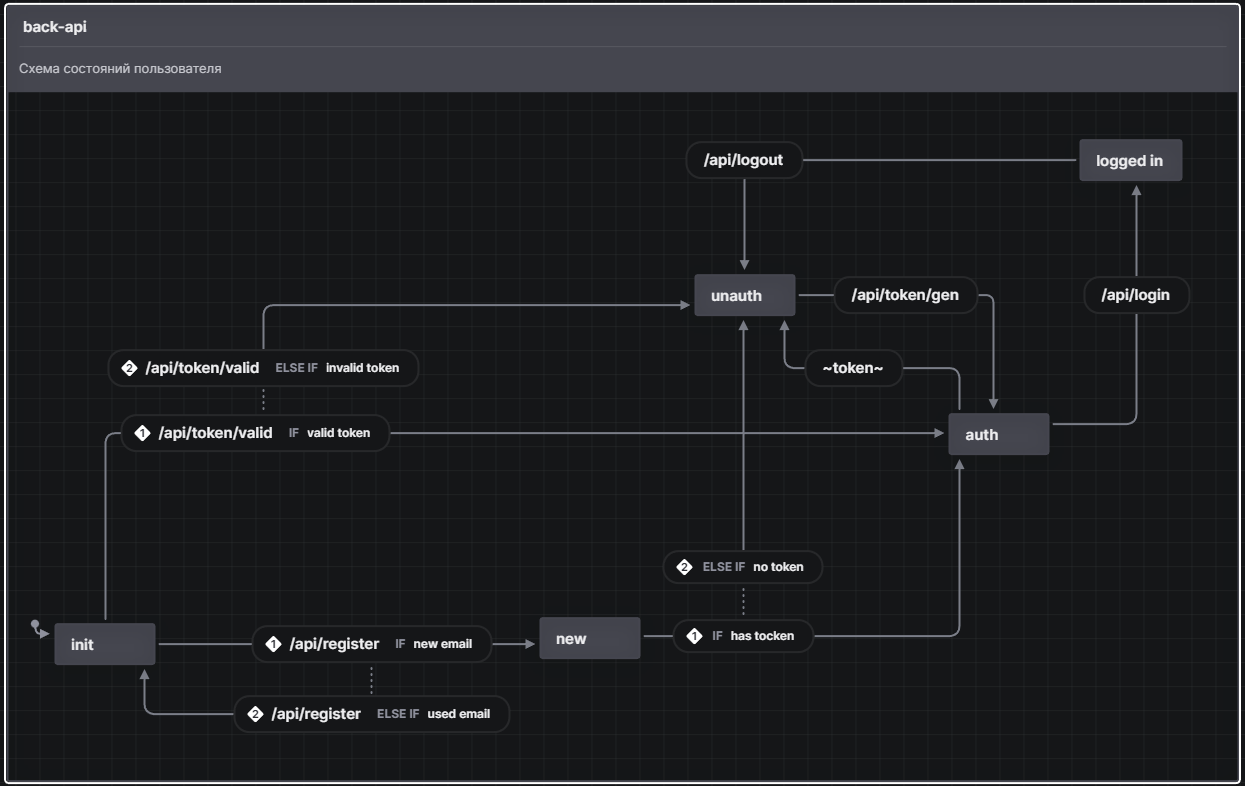
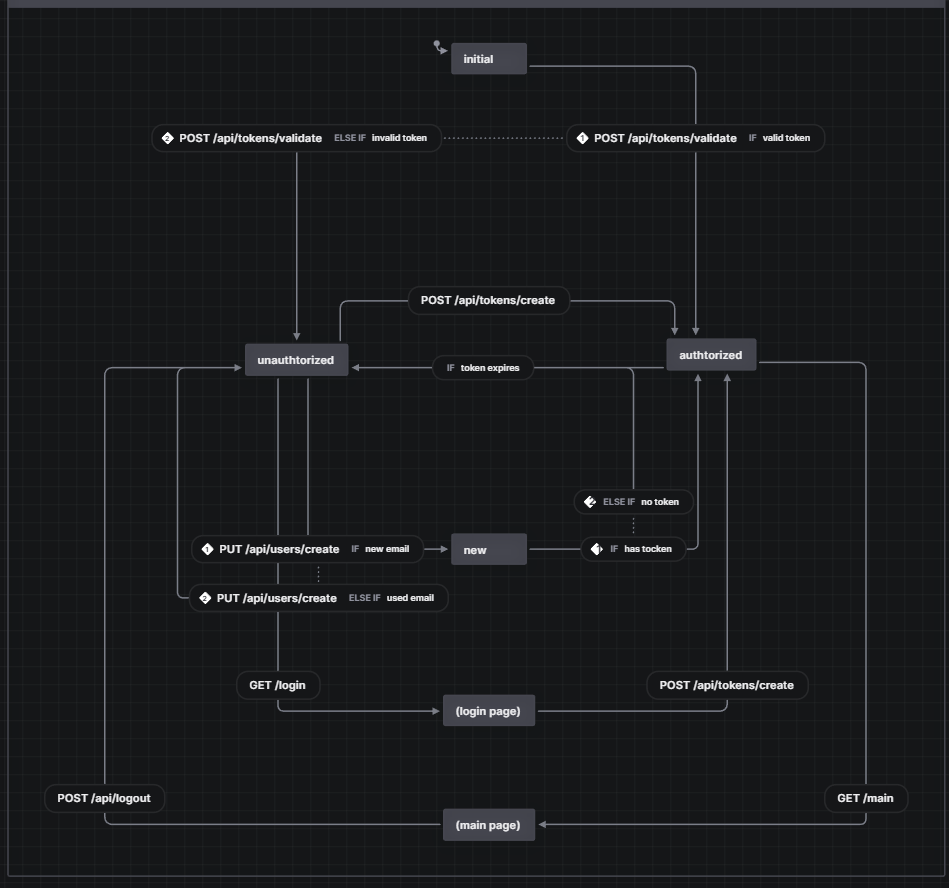
Fixed REST API, some refactoring

diff --git a/lab-4/backend-spring-kotlin/src/main/kotlin/io/github/e1turin/controller/AuthController.kt b/lab-4/backend-spring-kotlin/src/main/kotlin/io/github/e1turin/controller/AuthController.kt
@@ -1,12 +1,7 @@
 package io.github.e1turin.controller
 
-import com.auth0.jwt.JWT
-import com.auth0.jwt.JWTVerifier
-import com.auth0.jwt.algorithms.Algorithm
-import com.auth0.jwt.exceptions.JWTCreationException
-import com.auth0.jwt.interfaces.DecodedJWT
 import io.github.e1turin.dto.*
-import io.github.e1turin.model.User
+import io.github.e1turin.service.AuthService
 import io.github.e1turin.service.UserService
 import jakarta.servlet.http.Cookie
 import jakarta.servlet.http.HttpServletResponse
@@ -16,18 +11,32 @@ import org.springframework.web.bind.annotation.*
 import java.util.*
 
 @RestController
-@RequestMapping("api")
-class AuthController(private val userService: UserService) {
+@RequestMapping("api/auth")
+class AuthController(private val userService: UserService, private val authService: AuthService) {
 
-    private val algorithm = Algorithm.HMAC512("secret-kek-lol-idk") //TODO setting up properly
     private val logger = LoggerFactory.getLogger(AuthController::class.java)
 
-    @PostMapping("register")
-    fun register(@RequestBody body: RegisterRequest): ResponseEntity<Any> {
-        //TODO: Validation (@Valid)
+    /**
+     * Token check method
+     */
+    @PostMapping("tokens/validate")
+    fun validateToken(@CookieValue("jwt") token: String?): ResponseEntity<Any>{
+        //TODO @Valid
+        return if (token != null && authService.validateJwt(Jwt(token))){
+            ResponseEntity.ok("Token is valid")
+        } else {
+            ResponseEntity.status(401).body(error("Invalid token"))
+        }
+    }
 
+    /**
+     * Login method
+     */
+    @PostMapping("tokens/create")
+    fun createToken(@RequestBody body: LoginRequest, response: HttpServletResponse): ResponseEntity<Any> {
+
+        //TODO: Validation (@Valid)
         val problems = mutableListOf<Pair<String, String>>().apply {
-            body.name ?: add("name" to "Incorrect user name")
             body.email ?: add("email" to "Incorrect email")
             body.password ?: add("password" to "Incorrect Password")
         }
@@ -38,92 +47,58 @@ class AuthController(private val userService: UserService) {
             )
         }
 
-        //TODO: check if already exists
-        if (userService.existsByEmail(body.email!!)) {
-            return ResponseEntity.badRequest().body(
-                error("User with such email already exists")
-            )
+        val user = userService.findByEmail(body.email!!) ?: run {
+            return ResponseEntity.badRequest().body(error("User not found"))
         }
 
-        val user = User().apply {
-            name = body.name!!
-            email = body.email!!
-            password = body.password!!
-        }
-
-        return try {
-            userService.save(user)
-
-            ResponseEntity.ok(message("Success"))
-        } catch (e: Exception) {
-            ResponseEntity.badRequest().body(
-                error(
-                    error = "An error occurred",
-                    details = mapOf("error" to (e.message ?: ""))
-                )
-            )
-        }
-
-    }
-
-    @PostMapping("login")
-    fun login(@RequestBody body: LoginRequest, response: HttpServletResponse): ResponseEntity<Any> {
-        //TODO: Validation (@Valid)
-
-        body.email ?: return ResponseEntity.badRequest().body(error("User not found"))
-        body.password ?: return ResponseEntity.badRequest().body(error("User not found"))
-
-        val user = userService.findByEmail(body.email)
-            ?: return ResponseEntity.badRequest().body(error("User not found"))
-
-        if (!user.comparePassword(body.password)) {
+        if (!user.comparePassword(body.password!!)) {
             return ResponseEntity.badRequest().body(error("Invalid password"))
         }
 
-        val jwt = try {
-            JWT.create().withIssuer(user.id.toString())
-                .withExpiresAt(Date(System.currentTimeMillis() + 60 * 24 * 1000)) // 1 day
-                .sign(algorithm)
-        } catch (e: JWTCreationException) {
+        val jwt = authService.createJwtToken(user) ?: run {
             return ResponseEntity.badRequest().body(
-                error("An error occurred while preparing JWT ${e.message}")
+                error("Token was not created")
             )
         }
 
-        val cookie = Cookie("jwt", jwt).apply { isHttpOnly = true }
+        val cookie = Cookie("jwt", jwt.token).apply { isHttpOnly = true }
 
         response.addCookie(cookie)
 
         return ResponseEntity.ok(message("Success"))
     }
 
-    //TODO: Is it necessary end point?
-    @GetMapping("user")
-    fun user(@CookieValue("jwt") jwt: String?): ResponseEntity<Any> {
-        jwt ?: return ResponseEntity.status(401).body(error("Unauthenticated"))
-
-        //TODO: check current user (issuer in jwt)
-
-        return try {
-            val verifier: JWTVerifier = JWT.require(algorithm).build()
-            val decodedJWT: DecodedJWT = verifier.verify(jwt)
-
-            val user = this.userService.getById(decodedJWT.issuer.toLong())
-
-            ResponseEntity.ok(user)
-        } catch (e: Exception) {
-            ResponseEntity.status(401).body(
-                error("Unauthenticated, an error occurred : ${e.message}")
-            )
-        }
-    }
-
-    @PostMapping("logout")
-    fun logout(response: HttpServletResponse): ResponseEntity<Any> {
+    /**
+     * Logout method
+     */
+    @DeleteMapping("tokens/delete")
+    fun deleteToken(response: HttpServletResponse): ResponseEntity<Any> {
         val cookie = Cookie("jwt", "").apply { maxAge = 0 }
 
         response.addCookie(cookie)
 
         return ResponseEntity.ok(message("Success"))
+    }
+
+
+    /**
+     * Returns current user data
+     */
+    @GetMapping("users") //TODO: Is it necessary end point?
+    @CrossOrigin("localhost")
+    fun user(@CookieValue("jwt") jwt: String?): ResponseEntity<Any> {
+        jwt ?: run { return ResponseEntity.status(401).body(error("Unauthenticated")) }
+
+        //TODO: check current user (issuer in jwt)
+
+        val decodedJwt = authService.decodeJwt(Jwt(jwt)) ?: run {
+            return ResponseEntity.status(401).body(
+                error("Token was not correct")
+            )
+        }
+
+        val user = this.userService.getById(decodedJwt.issuer.toLong())
+
+        return ResponseEntity.ok(user)
     }
 }

diff --git a/lab-4/backend-spring-kotlin/src/main/kotlin/io/github/e1turin/controller/UserController.kt b/lab-4/backend-spring-kotlin/src/main/kotlin/io/github/e1turin/controller/UserController.kt
@@ -1,0 +1,68 @@
+package io.github.e1turin.controller
+
+import io.github.e1turin.dto.RegisterRequest
+import io.github.e1turin.dto.error
+import io.github.e1turin.dto.message
+import io.github.e1turin.model.User
+import io.github.e1turin.service.UserService
+import org.springframework.http.ResponseEntity
+import org.springframework.web.bind.annotation.PutMapping
+import org.springframework.web.bind.annotation.RequestBody
+import org.springframework.web.bind.annotation.RequestMapping
+import org.springframework.web.bind.annotation.RestController
+
+@RestController
+@RequestMapping("api/users")
+class UserController(private val userService: UserService) {
+
+    @PutMapping("create")
+    fun registerNewUser(@RequestBody body: RegisterRequest): ResponseEntity<Any> {
+        //TODO: Validation (@Valid)
+
+        val problems = mutableListOf<Pair<String, String>>().apply {
+            body.name ?: add("name" to "Incorrect user name")
+            body.email ?: add("email" to "Incorrect email")
+            body.password ?: add("password" to "Incorrect Password")
+        }
+
+        if (problems.isNotEmpty()) {
+            return ResponseEntity.badRequest().body(
+                error("Invalid payload", problems.toMap())
+            )
+        }
+
+        //TODO: check if already exists
+        if (userService.existsByEmail(body.email!!)) {
+            return ResponseEntity.badRequest().body(
+                error("User with such email already exists")
+            )
+        }
+
+        val user = User().apply {
+            name = body.name!!
+            email = body.email!!
+            password = body.password!!
+        }
+
+        return try {
+            userService.save(user)
+            /*
+             * `201 Created` is success status response code indicates
+             * that the request has succeeded and has led to the creation of a resource.
+             */
+            ResponseEntity.status(201).body(message("Success"))
+        } catch (e: Exception) { //TODO: I really want to show user the error message?
+            ResponseEntity.badRequest().body(
+                error(
+                    error = "An error occurred",
+                    details = mapOf("error" to (e.message ?: ""))
+                )
+            )
+        }
+
+    }
+
+
+
+
+}

diff --git a/lab-4/backend-spring-kotlin/src/main/kotlin/io/github/e1turin/service/AuthService.kt b/lab-4/backend-spring-kotlin/src/main/kotlin/io/github/e1turin/service/AuthService.kt
@@ -1,0 +1,45 @@
+package io.github.e1turin.service
+
+import com.auth0.jwt.JWT
+import com.auth0.jwt.JWTVerifier
+import com.auth0.jwt.algorithms.Algorithm
+import com.auth0.jwt.interfaces.DecodedJWT
+import io.github.e1turin.dto.Jwt
+import io.github.e1turin.model.User
+import org.slf4j.LoggerFactory
+import org.springframework.stereotype.Service
+import java.util.*
+
+@Service
+class AuthService {
+    private val logger = LoggerFactory.getLogger(AuthService::class.java)
+
+    //Injected
+    private val algorithm = Algorithm.HMAC512("secret-kek-lol-idk") //TODO setting up properly
+    fun createJwtToken(user: User): Jwt? =
+        try {
+            Jwt(
+                JWT.create().withIssuer(user.id.toString())
+                    .withExpiresAt(Date(System.currentTimeMillis() + 60 * 24 * 1000)) // 1 day
+                    .sign(algorithm)
+            )
+        } catch (e: Exception) {
+            logger.error(e.message, e.cause)
+            null
+        }
+
+
+    fun decodeJwt(token: Jwt): DecodedJWT? =
+        try {
+            val verifier: JWTVerifier = JWT.require(algorithm).build()
+            verifier.verify(token.token)
+        } catch (e: Exception) {
+            logger.error(e.message, e.cause)
+            null
+        }
+
+    fun validateJwt(token: Jwt): Boolean {
+        return decodeJwt(token) != null
+    }
+
+}

diff --git a/lab-4/backend-spring-kotlin/src/main/kotlin/io/github/e1turin/dto/Error.kt b/lab-4/backend-spring-kotlin/src/main/kotlin/io/github/e1turin/dto/Error.kt
@@ -1,8 +1,15 @@
 package io.github.e1turin.dto
 
+import com.fasterxml.jackson.annotation.JsonInclude
+
 
 //TODO: DSL (problem with kotlin exception-Error class!!!)
-data class Error(val error: String, val details: Map<String, String>? = null)
+data class Error(
+    val error: String,
+
+    @JsonInclude(JsonInclude.Include.NON_NULL)
+    val details: Map<String, String>? = null
+)
 
 /**
  * Prepares pair for json response

diff --git a/lab-4/backend-spring-kotlin/src/main/kotlin/io/github/e1turin/dto/RegisterRequest.kt b/lab-4/backend-spring-kotlin/src/main/kotlin/io/github/e1turin/dto/RegisterRequest.kt
@@ -8,9 +8,11 @@ import jakarta.validation.constraints.Size
 data class RegisterRequest(
     @field:NotBlank
     val name: String?,
+
     @field:Email
     @field:NotBlank
     val email: String?,
+
     @field:NotBlank
     //@field:Size(min = 4, max = 20) /* message = "{validation.field.password.invalid-format} */
     val password: String?

diff --git a/lab-4/backend-spring-kotlin/src/main/kotlin/io/github/e1turin/dto/LoginRequest.kt b/lab-4/backend-spring-kotlin/src/main/kotlin/io/github/e1turin/dto/LoginRequest.kt
@@ -6,8 +6,9 @@ import jakarta.validation.constraints.NotBlank
 //TODO: validation, Nullable?
 data class LoginRequest(
     @field:NotBlank
-    val email: String,
+    val email: String?,
+
     @field:NotBlank
     //@field:Size(min = 4, max = 20)
-    val password: String
+    val password: String?
 )

diff --git a/lab-4/backend-spring-kotlin/src/main/kotlin/io/github/e1turin/dto/Jwt.kt b/lab-4/backend-spring-kotlin/src/main/kotlin/io/github/e1turin/dto/Jwt.kt
@@ -1,0 +1,4 @@
+package io.github.e1turin.dto
+
+@JvmInline
+value class Jwt(val token: String)

diff --git a/lab-4/backend-spring-kotlin/src/main/java/io/github/e1turin/controller/ErrorHandlerController.java b/lab-4/backend-spring-kotlin/src/main/java/io/github/e1turin/controller/ErrorHandlerController.java
@@ -1,0 +1,18 @@
+package io.github.e1turin.controller;
+
+
+import org.springframework.http.HttpStatus;
+import org.springframework.web.bind.annotation.ExceptionHandler;
+import org.springframework.web.bind.annotation.ResponseStatus;
+import org.springframework.web.bind.annotation.RestControllerAdvice;
+import org.springframework.web.servlet.NoHandlerFoundException;
+
+@RestControllerAdvice
+public class ErrorHandlerController {
+
+    @ExceptionHandler(NoHandlerFoundException.class)
+    @ResponseStatus(value = HttpStatus.NOT_FOUND )
+    public String handleNotFoundError(NoHandlerFoundException ex) {
+        return "[ " + this + " ] path does not exists (fix your url :0)";
+    }
+}

diff --git a/lab-4/README.md b/lab-4/README.md
@@ -28,7 +28,7 @@
 - [ ] "Планшетный" - для устройств, ширина экрана которых равна или превышает _843_, но меньше _1197_ пикселей.
 - [ ] "Мобильный"- для устройств, ширина экрана которых меньше _843_ пикселей.
 
-## Стартовая страница должна содержать следующие элементы:
+## __Стартовая страница__ должна содержать следующие элементы:
 
 - [ ] "Шапку", содержащую ФИО студента, номер группы и номер варианта.
 - [ ] Форму для ввода логина и пароля. Информация о зарегистрированных в системе пользователях должна храниться в
@@ -39,7 +39,7 @@
     >   - [IDunion/SD-JWT-Kotlin](https://github.com/IDunion/SD-JWT-Kotlin) (kotlinx.serialization)
     >   - [auth0/java-jwt](https://github.com/auth0/java-jwt)
 
-## Основная страница приложения должна содержать следующие элементы:
+## __Основная страница__ приложения должна содержать следующие элементы:
 
 - [ ] Набор полей ввода для задания координат точки и радиуса области в соответствии с вариантом задания: `Checkbox {'-4'
   ,'-3','-2','-1','0','1','2','3','4'}` для координаты по оси X, `Text (-3 ... 3)` для координаты по оси Y, и `Checkbox
